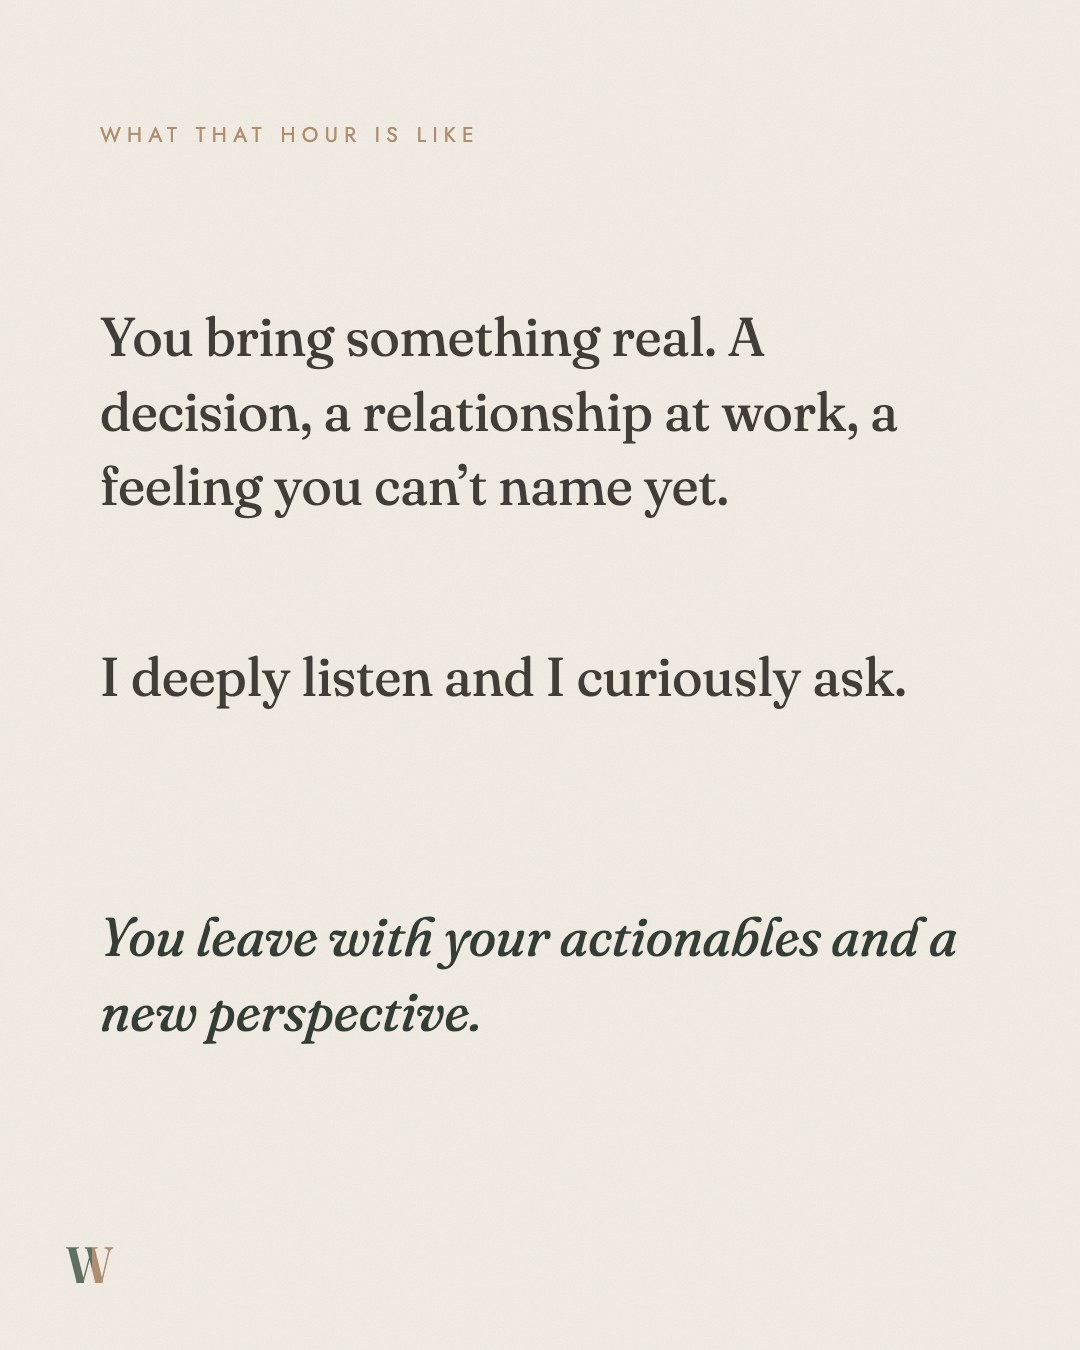
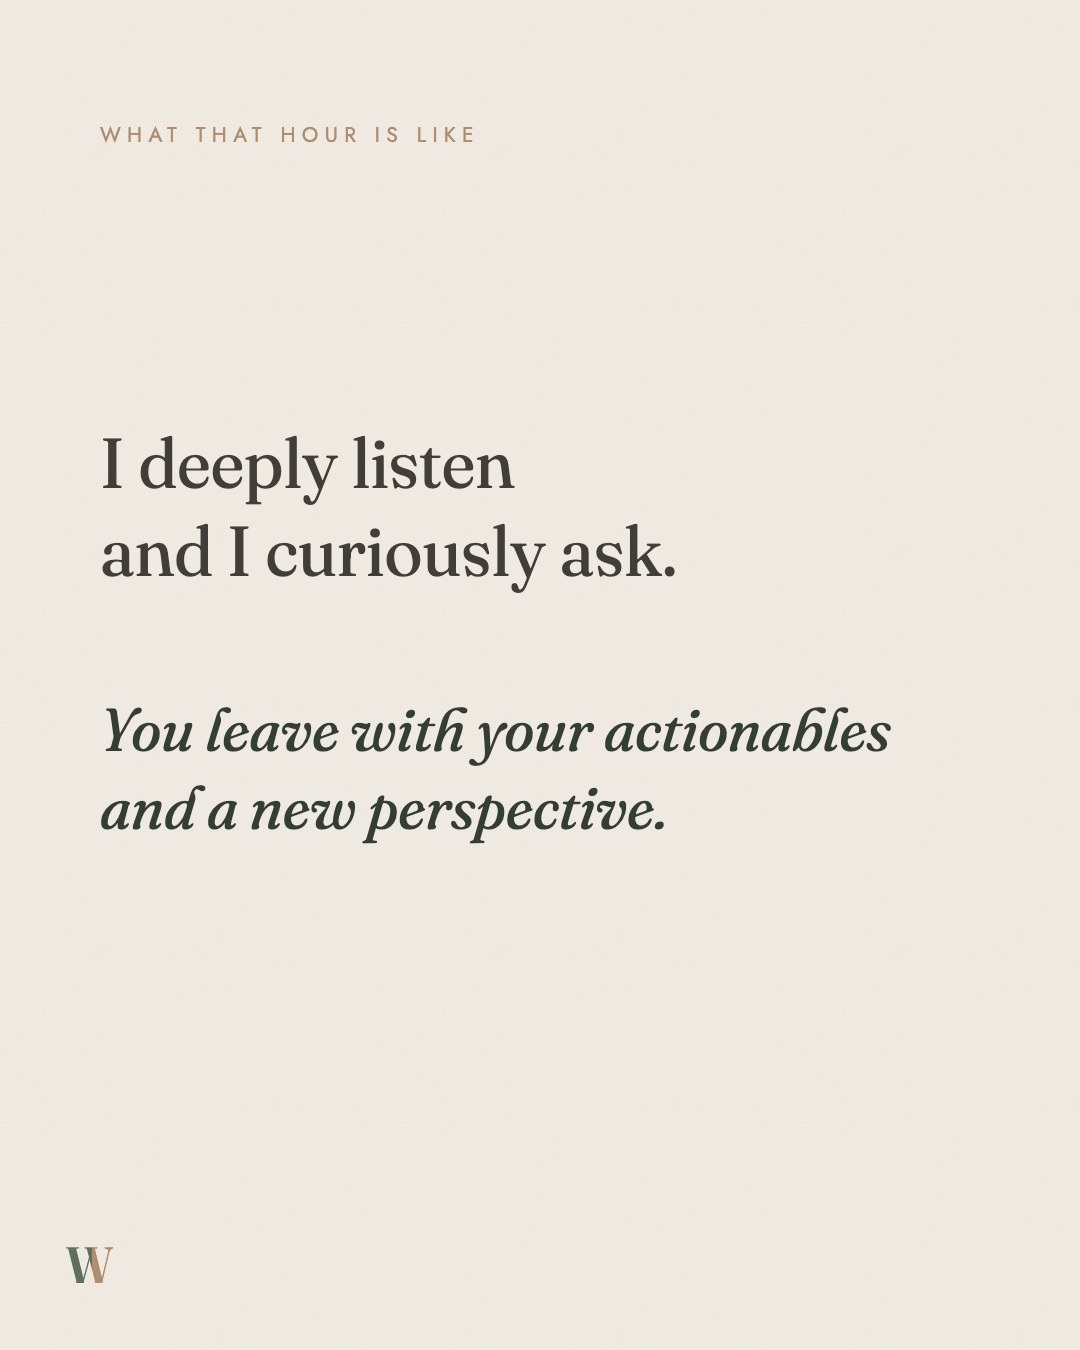
Post 5 slide 2: only Megha's two lines

diff --git a/content/index.html b/content/index.html
@@ -83,7 +83,7 @@ Book a discovery call on www.withinworksleadership.com</textarea></div></div>
 <p class="eyebrow" style="margin-bottom:10px">05 &middot; Inside a session<span class="rev">Revised 7 Nov</span></p>
 <div class="ig">
   <div class="ig-head"><img src="../assets/megha.jpg" alt=""><span><b>megha.withinworks</b><small>Dubai</small></span><span class="dots">&middot;&middot;&middot;</span></div>
-  <div class="ig-media"><div class="ig-track"><img src="../posts/c1-15a.jpg?v=1794045259" alt="" loading="lazy" width="1080" height="1350"><img src="../posts/c1-15b.jpg?v=1794045260" alt="" loading="lazy" width="1080" height="1350"></div><span class="ig-count">1/2</span><button class="ig-arrow prev" aria-label="Previous" hidden>&#8249;</button><button class="ig-arrow next" aria-label="Next">&#8250;</button></div>
+  <div class="ig-media"><div class="ig-track"><img src="../posts/c1-15a.jpg?v=1794045883" alt="" loading="lazy" width="1080" height="1350"><img src="../posts/c1-15b.jpg?v=1794045884" alt="" loading="lazy" width="1080" height="1350"></div><span class="ig-count">1/2</span><button class="ig-arrow prev" aria-label="Previous" hidden>&#8249;</button><button class="ig-arrow next" aria-label="Next">&#8250;</button></div>
   <div class="ig-bar"><svg viewBox="0 0 24 24" class=""><path d="M12 21s-7.5-4.6-9.3-9.2C1.4 8.4 3.6 5 7 5c2 0 3.4 1.1 5 3 1.6-1.9 3-3 5-3 3.4 0 5.6 3.4 4.3 6.8C19.5 16.4 12 21 12 21z"/></svg><svg viewBox="0 0 24 24" class=""><path d="M20.5 12a8.5 8.5 0 0 1-12.4 7.5L3.5 21l1.5-4.4A8.5 8.5 0 1 1 20.5 12z"/></svg><svg viewBox="0 0 24 24" class=""><path d="M22 3 9.2 10.1M22 3l-7 18-3.8-8.6L2 9.5 22 3z"/></svg><span class="ig-pips"><i></i><i></i></span><svg viewBox="0 0 24 24" class="save"><path d="M19 21l-7-5.2L5 21V3h14z"/></svg></div>
   <div class="ig-cap clip"><b>megha.withinworks</b>People often ask what actually happens in a session. It’s quieter than you’d think.</div><button class="ig-more" type="button">more</button>
   <div class="ig-when"><span></span><div class="copyrow"><button class="copy" type="button" title="Copy caption" aria-label="Copy caption"><svg viewBox="0 0 24 24"><rect x="9" y="9" width="11" height="11" rx="2"/><path d="M5 15V6a2 2 0 0 1 2-2h9"/></svg></button><textarea class="cap-src" hidden>People often ask what actually happens in a session. It’s quieter than you’d think.</textarea></div></div>
